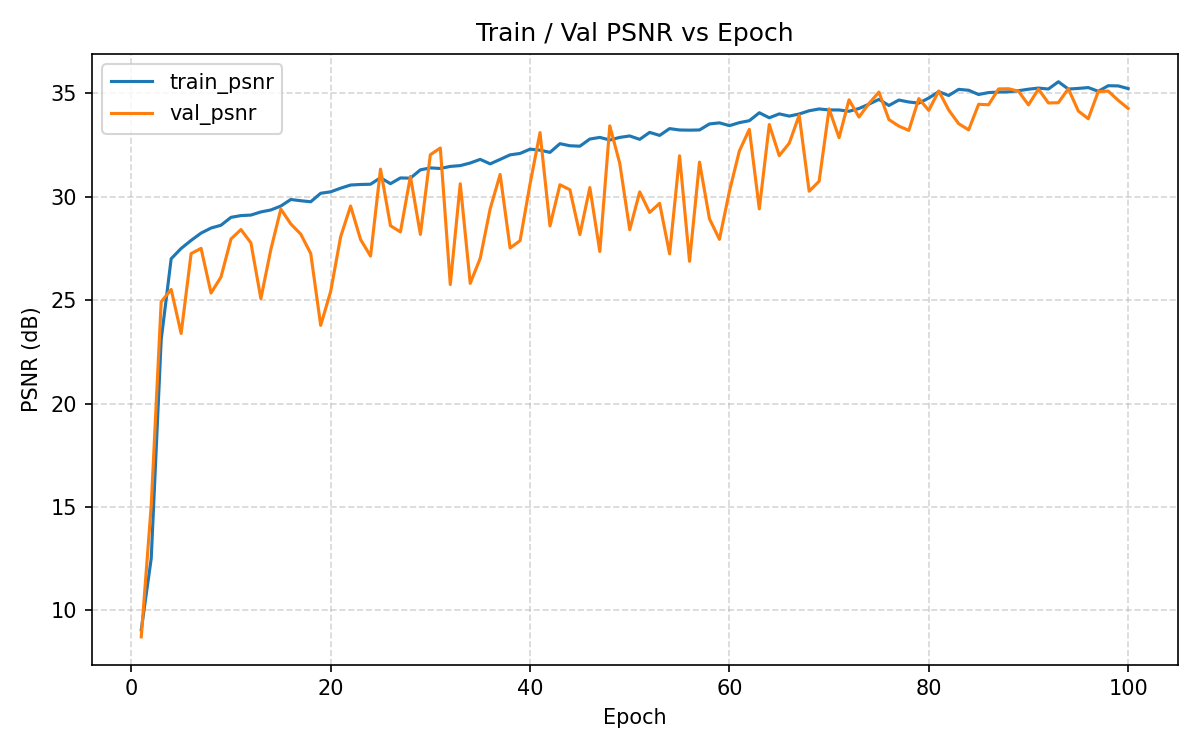
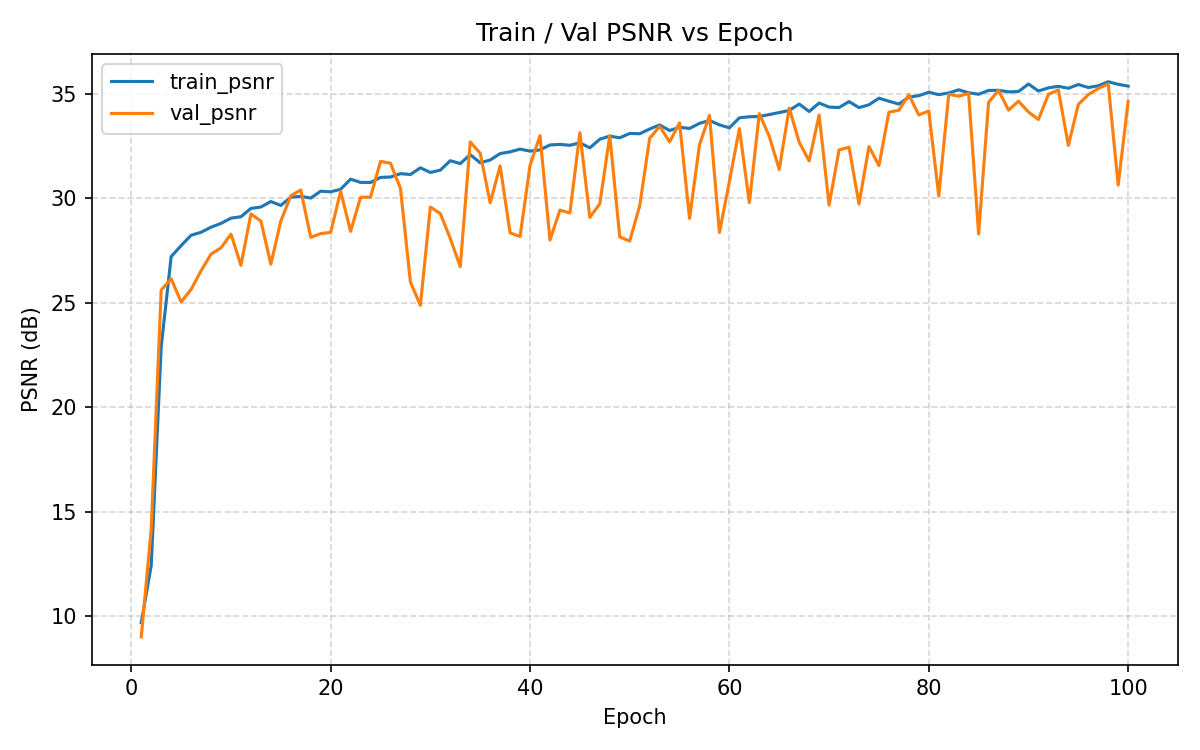
添加3个epoch的warmup

diff --git a/Unet_organized/Unet_SA_Claude_SameRes/eval.py b/Unet_organized/Unet_SA_Claude_SameRes/eval.py
@@ -39,7 +39,7 @@ BICUBIC_BASELINE_FACTOR = 1  # 1 = disable; 2 or 4 = enable baseline blur
 TOA_UNIT_LABEL = "TOA radiance (W·m⁻²·sr⁻¹·µm⁻¹)"
 VERBOSE_SKIP_LOG = True  # print reasons when a sample is skipped
 METRICS_CSV = os.path.join(SAVE_DIR, "metrics.csv")  # per-image metrics
-VAL_SPLIT = 0.1  # 与训练默认一致
+VAL_SPLIT = 0.3  # 与训练默认一致
 EVAL_LOG_EVERY = 25  # 每多少个样本打印一次进度指标
 PRINT_CONFIG = True  # 是否在开头打印配置
 
@@ -410,21 +410,19 @@ def save_four_col_figure(path: str, goci_raw: np.ndarray, interp: np.ndarray, sr
         ax = axes[i, 1]
         im1 = ax.imshow(int_b, cmap="viridis", vmin=vmin, vmax=vmax)
         bic_psnr = _psnr_np(int_b, hr_b)
-        bic_r2 = _r2_np(int_b, hr_b)
         bic_mape = _mape_np(int_b, hr_b)
-        ax.set_title(f"Interp - {label} | PSNR {bic_psnr:.2f} dB | R2 {bic_r2:.3f} | MAPE {bic_mape:.1f}%", fontsize=10, pad=4)
+        ax.set_title(f"Interp - {label} | PSNR {bic_psnr:.2f} dB | MAPE {bic_mape:.1f}%", fontsize=10, pad=4)
         ax.axis("off")
 
         # SR band PSNR vs HR
         sr_t = torch.from_numpy(sr_b[None, None, ...])
         hr_t = torch.from_numpy(hr_b[None, None, ...])
         bpsnr = psnr_fn(sr_t, hr_t)
+        sr_mape = _mape_np(sr_b, hr_b)
 
         ax = axes[i, 2]
         im2 = ax.imshow(sr_b, cmap="viridis", vmin=vmin, vmax=vmax)
-        sr_r2 = _r2_np(sr_b, hr_b)
-        sr_mape = _mape_np(sr_b, hr_b)
-        ax.set_title(f"SR - {label} | PSNR {bpsnr:.2f} dB | R2 {sr_r2:.3f} | MAPE {sr_mape:.1f}%", fontsize=10, pad=4)
+        ax.set_title(f"SR - {label} | PSNR {bpsnr:.2f} dB | MAPE {sr_mape:.1f}%", fontsize=10, pad=4)
         ax.axis("off")
 
         ax = axes[i, 3]
@@ -550,14 +548,12 @@ def save_compact_fourcol_subplot(
             ax0.set_aspect('equal')
         # Compute metrics per band (bicubic vs HR, SR vs HR)
         bic_psnr = _psnr_np(bic_b, hr_b)
-        bic_r2 = _r2_np(bic_b, hr_b)
         bic_mape = _mape_np(bic_b, hr_b)
         sr_psnr = _psnr_np(sr_b, hr_b)
-        sr_r2 = _r2_np(sr_b, hr_b)
         sr_mape = _mape_np(sr_b, hr_b)
 
-        bic_text = f"{col_texts[1]} ({band_text})\nPSNR {bic_psnr:.2f} dB | R2 {bic_r2:.3f} | MAPE {bic_mape:.1f}%"
-        sr_text = f"{col_texts[2]} ({band_text})\nPSNR {sr_psnr:.2f} dB | R2 {sr_r2:.3f} | MAPE {sr_mape:.1f}%"
+        bic_text = f"{col_texts[1]} ({band_text})\nPSNR {bic_psnr:.2f} dB | MAPE {bic_mape:.1f}%"
+        sr_text = f"{col_texts[2]} ({band_text})\nPSNR {sr_psnr:.2f} dB | MAPE {sr_mape:.1f}%"
 
         _draw(ax1, bic_b, vmin, vmax, bic_text)
         _draw(ax2, sr_b, vmin, vmax, sr_text)
@@ -615,6 +611,73 @@ def save_compact_fourcol_subplot(
     plt.close(fig)
 
 
+def eval_subset(ds_subset, split_name: str, model, device):
+    split_dir = os.path.join(SAVE_DIR, split_name)
+    os.makedirs(split_dir, exist_ok=True)
+    csv_path = os.path.join(split_dir, "metrics.csv")
+    if not os.path.exists(csv_path):
+        with open(csv_path, "w", newline="", encoding="utf-8") as f:
+            writer = csv.writer(f)
+            writer.writerow([
+                "filename",
+                "sr_psnr_mean", "sr_mape_mean",
+                "sr_psnr_b1","sr_psnr_b2","sr_psnr_b3","sr_psnr_b4","sr_psnr_b5",
+                "sr_mape_b1","sr_mape_b2","sr_mape_b3","sr_mape_b4","sr_mape_b5",
+            ])
+    saved = 0
+    for i in tqdm(range(len(ds_subset)), desc=f"eval-{split_name}"):
+        lr_t, hr_t, name = ds_subset[i]
+        lr_t = lr_t.unsqueeze(0).to(device)
+        hr_t = hr_t.unsqueeze(0).to(device)
+        with torch.no_grad():
+            sr = model(lr_t)
+        sr_np = sr.squeeze(0).cpu().numpy()
+        hr_np = hr_t.squeeze(0).cpu().numpy()
+        lr_np = lr_t.squeeze(0).cpu().numpy()
+        goci_raw = np.zeros_like(lr_np)
+        patch_base = os.path.splitext(os.path.basename(name))[0]
+        out_png_compact = os.path.join(split_dir, f"{patch_base}_compare_compact.png")
+        try:
+            save_compact_fourcol_subplot(
+                out_png_compact,
+                goci_raw,
+                lr_np,
+                sr_np,
+                hr_np,
+                BAND_LABELS,
+                col_texts=("GOCI-II", "Interpolated GOCI", "Super Resolution", "Landsat"),
+                goci_roi_box=None,
+            )
+            saved += 1
+        except Exception:
+            out_png = os.path.join(split_dir, f"{patch_base}_compare_4col.png")
+            save_four_col_figure(out_png, goci_raw, lr_np, sr_np, hr_np, BAND_LABELS, patch_base)
+            saved += 1
+        # SR metrics only
+        try:
+            nb = int(min(5, sr_np.shape[0], hr_np.shape[0]))
+            sr_psnrs = []
+            sr_mapes = []
+            for bi in range(nb):
+                sr_psnrs.append(_psnr_np(sr_np[bi], hr_np[bi]))
+                sr_mapes.append(_mape_np(sr_np[bi], hr_np[bi]))
+            while len(sr_psnrs) < 5:
+                sr_psnrs.append(float('nan'))
+            while len(sr_mapes) < 5:
+                sr_mapes.append(float('nan'))
+            with open(csv_path, "a", newline="", encoding="utf-8") as f:
+                writer = csv.writer(f)
+                writer.writerow([
+                    os.path.basename(name),
+                    float(np.nanmean(sr_psnrs)), float(np.nanmean(sr_mapes)),
+                    *[float(x) for x in sr_psnrs[:5]],
+                    *[float(x) for x in sr_mapes[:5]],
+                ])
+        except Exception as e:
+            tqdm.write(f"[warn] write CSV failed {name}: {type(e).__name__}: {e}")
+    tqdm.write(f"[summary:{split_name}] saved={saved} csv={csv_path}")
+
+
 @torch.no_grad()
 def main():
     t0 = time.time()
@@ -632,10 +695,27 @@ def main():
     load_checkpoint(model, WEIGHTS, map_location=device)
     model.eval()
 
+    # 使用与训练一致的随机划分，并分别评估 train/val（输出分开存放）
+    ds_full = PairTifDataset(lr_dir=LR_DIR, hr_dir=HR_DIR, require_bands=5)
+    full_len = len(ds_full)
+    train_ds, val_ds = split_dataset(ds_full, VAL_SPLIT)
+    if PRINT_CONFIG:
+        print(f"完整数据集样本数: {full_len} | 训练: {len(train_ds)} | 验证: {len(val_ds)}")
+        try:
+            preview = [os.path.basename(p[0]) for p in ds_full.files[:5]]
+            print("样本预览:", preview)
+        except Exception:
+            pass
+    os.makedirs(SAVE_DIR, exist_ok=True)
+    eval_subset(train_ds, 'train', model, device)
+    eval_subset(val_ds, 'val', model, device)
+    print(f"总耗时: {time.time()-t0:.2f} 秒 | 输出目录: {SAVE_DIR}")
+    return
+
     ds_full = PairTifDataset(lr_dir=LR_DIR, hr_dir=HR_DIR, require_bands=5)
     full_len = len(ds_full)
     # 与训练相同的随机划分（使用 main.split_dataset 内置种子）
-    _, ds = split_dataset(ds_full, VAL_SPLIT)
+    train_ds, ds = split_dataset(ds_full, VAL_SPLIT)
     eval_len = len(ds)
     if PRINT_CONFIG:
         print(f"完整数据集样本数: {full_len} | 验证子集样本数(本次评估): {eval_len}")

diff --git a/Unet_organized/Unet_SA_Claude_SameRes/model_attention.py b/Unet_organized/Unet_SA_Claude_SameRes/model_attention.py
@@ -83,30 +83,16 @@ class ResidualConvBlock(nn.Module):
         out += residual # 添加残差连接
         return F.relu(out)
     
-class UpBlockPixelShuffle(nn.Module):
-    """
-    使用 PixelShuffle 的上采样模块
-    它包含: Conv -> PixelShuffle -> Conv
-    """
-    def __init__(self, in_channels, out_channels, scale_factor=2):
-        super(UpBlockPixelShuffle, self).__init__()
-        # 1. 第一个卷积层，用于生成 PixelShuffle 需要的通道数
-        self.conv1 = nn.Conv2d(in_channels, out_channels * scale_factor**2, kernel_size=3, padding=1)
-        # 2. PixelShuffle 操作
-        self.pixel_shuffle = nn.PixelShuffle(scale_factor)
-        # 3. BatchNorm 和激活函数
+class UpConv(nn.Module):
+    """反卷积上采样模块：ConvTranspose2d -> BN -> ReLU"""
+    def __init__(self, in_channels, out_channels):
+        super().__init__()
+        self.up = nn.ConvTranspose2d(in_channels, out_channels, kernel_size=2, stride=2)
         self.bn = nn.BatchNorm2d(out_channels)
-        self.relu = nn.ReLU()
-        # 4. 第二个卷积层，用于在特征重排后进一步整合信息
-        self.conv2 = nn.Conv2d(out_channels, out_channels, kernel_size=3, padding=1)
-
+        self.relu = nn.ReLU(inplace=True)
 
     def forward(self, x):
-        x = self.conv1(x)
-        x = self.pixel_shuffle(x)
-        x = self.relu(self.bn(x))
-        x = self.conv2(x)
-        return x
+        return self.relu(self.bn(self.up(x)))
 
 # ----------------------------------------------------------------#
 # 3. U-Net 整体结构
@@ -117,7 +103,7 @@ class UNetSASameRes(nn.Module):
     def __init__(self, in_channels=5, out_channels=5):
         super(UNetSASameRes, self).__init__()
 
-        # 编码器 (下采样) - 保持不变
+        # 编码器 (下采样)
         self.encoder1 = ResidualConvBlock(in_channels, 64)
         self.pool1 = nn.MaxPool2d(2, 2)
         self.encoder2 = ResidualConvBlock(64, 128)
@@ -127,31 +113,23 @@ class UNetSASameRes(nn.Module):
         self.encoder4 = ResidualConvBlock(256, 512)
         self.pool4 = nn.MaxPool2d(2, 2)
 
-        # 瓶颈层 - 保持不变
+        # 瓶颈层
         self.bottleneck = ResidualConvBlock(512, 1024)
 
-        # 解码器 (上采样) - 使用新的 UpBlockPixelShuffle 模块
-        # 原来: self.upconv4 = nn.ConvTranspose2d(1024, 512, kernel_size=2, stride=2)
-        self.upconv4 = UpBlockPixelShuffle(1024, 512)
+        # 解码器 (上采样) - ConvTranspose2d 版本
+        self.upconv4 = UpConv(1024, 512)
         self.decoder4 = ResidualConvBlock(1024, 512)
-        
-        # 原来: self.upconv3 = nn.ConvTranspose2d(512, 256, kernel_size=2, stride=2)
-        self.upconv3 = UpBlockPixelShuffle(512, 256)
+        self.upconv3 = UpConv(512, 256)
         self.decoder3 = ResidualConvBlock(512, 256)
-        
-        # 原来: self.upconv2 = nn.ConvTranspose2d(256, 128, kernel_size=2, stride=2)
-        self.upconv2 = UpBlockPixelShuffle(256, 128)
+        self.upconv2 = UpConv(256, 128)
         self.decoder2 = ResidualConvBlock(256, 128)
-        
-        # 原来: self.upconv1 = nn.ConvTranspose2d(128, 64, kernel_size=2, stride=2)
-        self.upconv1 = UpBlockPixelShuffle(128, 64)
+        self.upconv1 = UpConv(128, 64)
         self.decoder1 = ResidualConvBlock(128, 64)
 
-        # 输出层 - 保持不变
+        # 输出层
         self.out_conv = nn.Conv2d(64, out_channels, kernel_size=1)
 
     def forward(self, x):
-        # 前向传播逻辑完全不需要改变，因为我们的新模块是直接替换
         # 编码器
         skip1 = self.encoder1(x)
         skip2 = self.encoder2(self.pool1(skip1))
@@ -178,7 +156,6 @@ class UNetSASameRes(nn.Module):
         d1 = torch.cat((skip1, d1), dim=1)
         d1 = self.decoder1(d1)
 
-        # 输出
         return self.out_conv(d1)
     
 def create_model(in_channels: int = 5, out_channels: int = 5) -> nn.Module:

diff --git a/Unet_organized/Unet_SA_Claude_SameRes/main.py b/Unet_organized/Unet_SA_Claude_SameRes/main.py
@@ -205,7 +205,7 @@ def main():
     print(f"输出目录: {OUT_DIR}")
     print(f"数据集划分: 验证集比例={VAL_SPLIT:.2f} | 全局种子(SEED)={SEED}")
     print(f"Batch 大小: {BATCH_SIZE} | Epoch 数: {EPOCHS}")
-    print(f"学习率: {LEARNING_RATE} | 优化器: AdamW | Scheduler: cosine")
+    print(f"学习率: {LEARNING_RATE} | 优化器: AdamW | Scheduler: warmup+cosine (warmup=3)")
     print(f"AMP: {'启用' if USE_AMP else '关闭'}")
     print(f"损失函数: {LOSS_NAME}")
     print(f"详细日志: VERBOSE={VERBOSE} | LOG_EVERY_N={LOG_EVERY_N}")
@@ -224,8 +224,9 @@ def main():
 
     model = create_model(in_channels=5, out_channels=5).to(device)
     optimizer = AdamW(model.parameters(), lr=LEARNING_RATE, betas=(0.9,0.99), weight_decay=1e-4)
-    # 纯余弦衰减参数（无 warmup）
-    MIN_LR_RATIO = 0.05        # 余弦调度最终相对最小学习率 (base_lr * ratio)
+    # 学习率调度：3 epoch 线性 warmup + 余弦衰减
+    WARMUP_EPOCHS = 3
+    MIN_LR_RATIO = 0.05  # 余弦阶段最终相对最小学习率 (base_lr * ratio)
     # 初始以第一阶段权重创建
     loss_fn = make_loss(LOSS_NAME, alpha=ALPHA_CHARB, beta=BETA_SSIM_FIRST, ssim_data_range=SSIM_DATA_RANGE)
     scaler = (torch.amp.GradScaler('cuda') if (USE_AMP and device.type == 'cuda') else None)
@@ -241,22 +242,25 @@ def main():
     # 指标历史
     psnr_history = []
 
-    def compute_cosine_lr(epoch_idx: int):
-        """纯余弦衰减学习率（无 warmup）。
+    def compute_lr(epoch_idx: int):
+        """3 epoch 线性 warmup + 余弦衰减。
 
-        epoch_idx 从 1 开始：
-            progress = (epoch_idx - 1)/(EPOCHS - 1) ∈ [0,1]
-            lr = min_lr + (base_lr - min_lr) * 0.5 * (1 + cos(pi * progress))
+        Warmup: lr = base_lr * epoch / WARMUP_EPOCHS (epoch ∈ [1, WARMUP_EPOCHS])
+        Cosine: lr = min_lr + (base_lr - min_lr)*0.5*(1+cos(pi * progress))
+                progress ∈ [0,1]
         """
-        progress = (epoch_idx - 1) / max(1, (EPOCHS - 1))
+        if epoch_idx <= WARMUP_EPOCHS:
+            return LEARNING_RATE * epoch_idx / max(1, WARMUP_EPOCHS)
+        # 余弦阶段
+        progress = (epoch_idx - WARMUP_EPOCHS) / max(1, (EPOCHS - WARMUP_EPOCHS))
         progress = min(1.0, max(0.0, progress))
         cosine = 0.5 * (1 + math.cos(math.pi * progress))
         min_lr = LEARNING_RATE * MIN_LR_RATIO
         return min_lr + (LEARNING_RATE - min_lr) * cosine
 
     for epoch in range(1, EPOCHS+1):  # epoch 从 1 开始
-        # 更新学习率（纯余弦衰减）
-        new_lr = compute_cosine_lr(epoch)
+        # 更新学习率（warmup+cosine）
+        new_lr = compute_lr(epoch)
         for g in optimizer.param_groups:
             g['lr'] = new_lr
         # 动态调整 SSIM 权重
